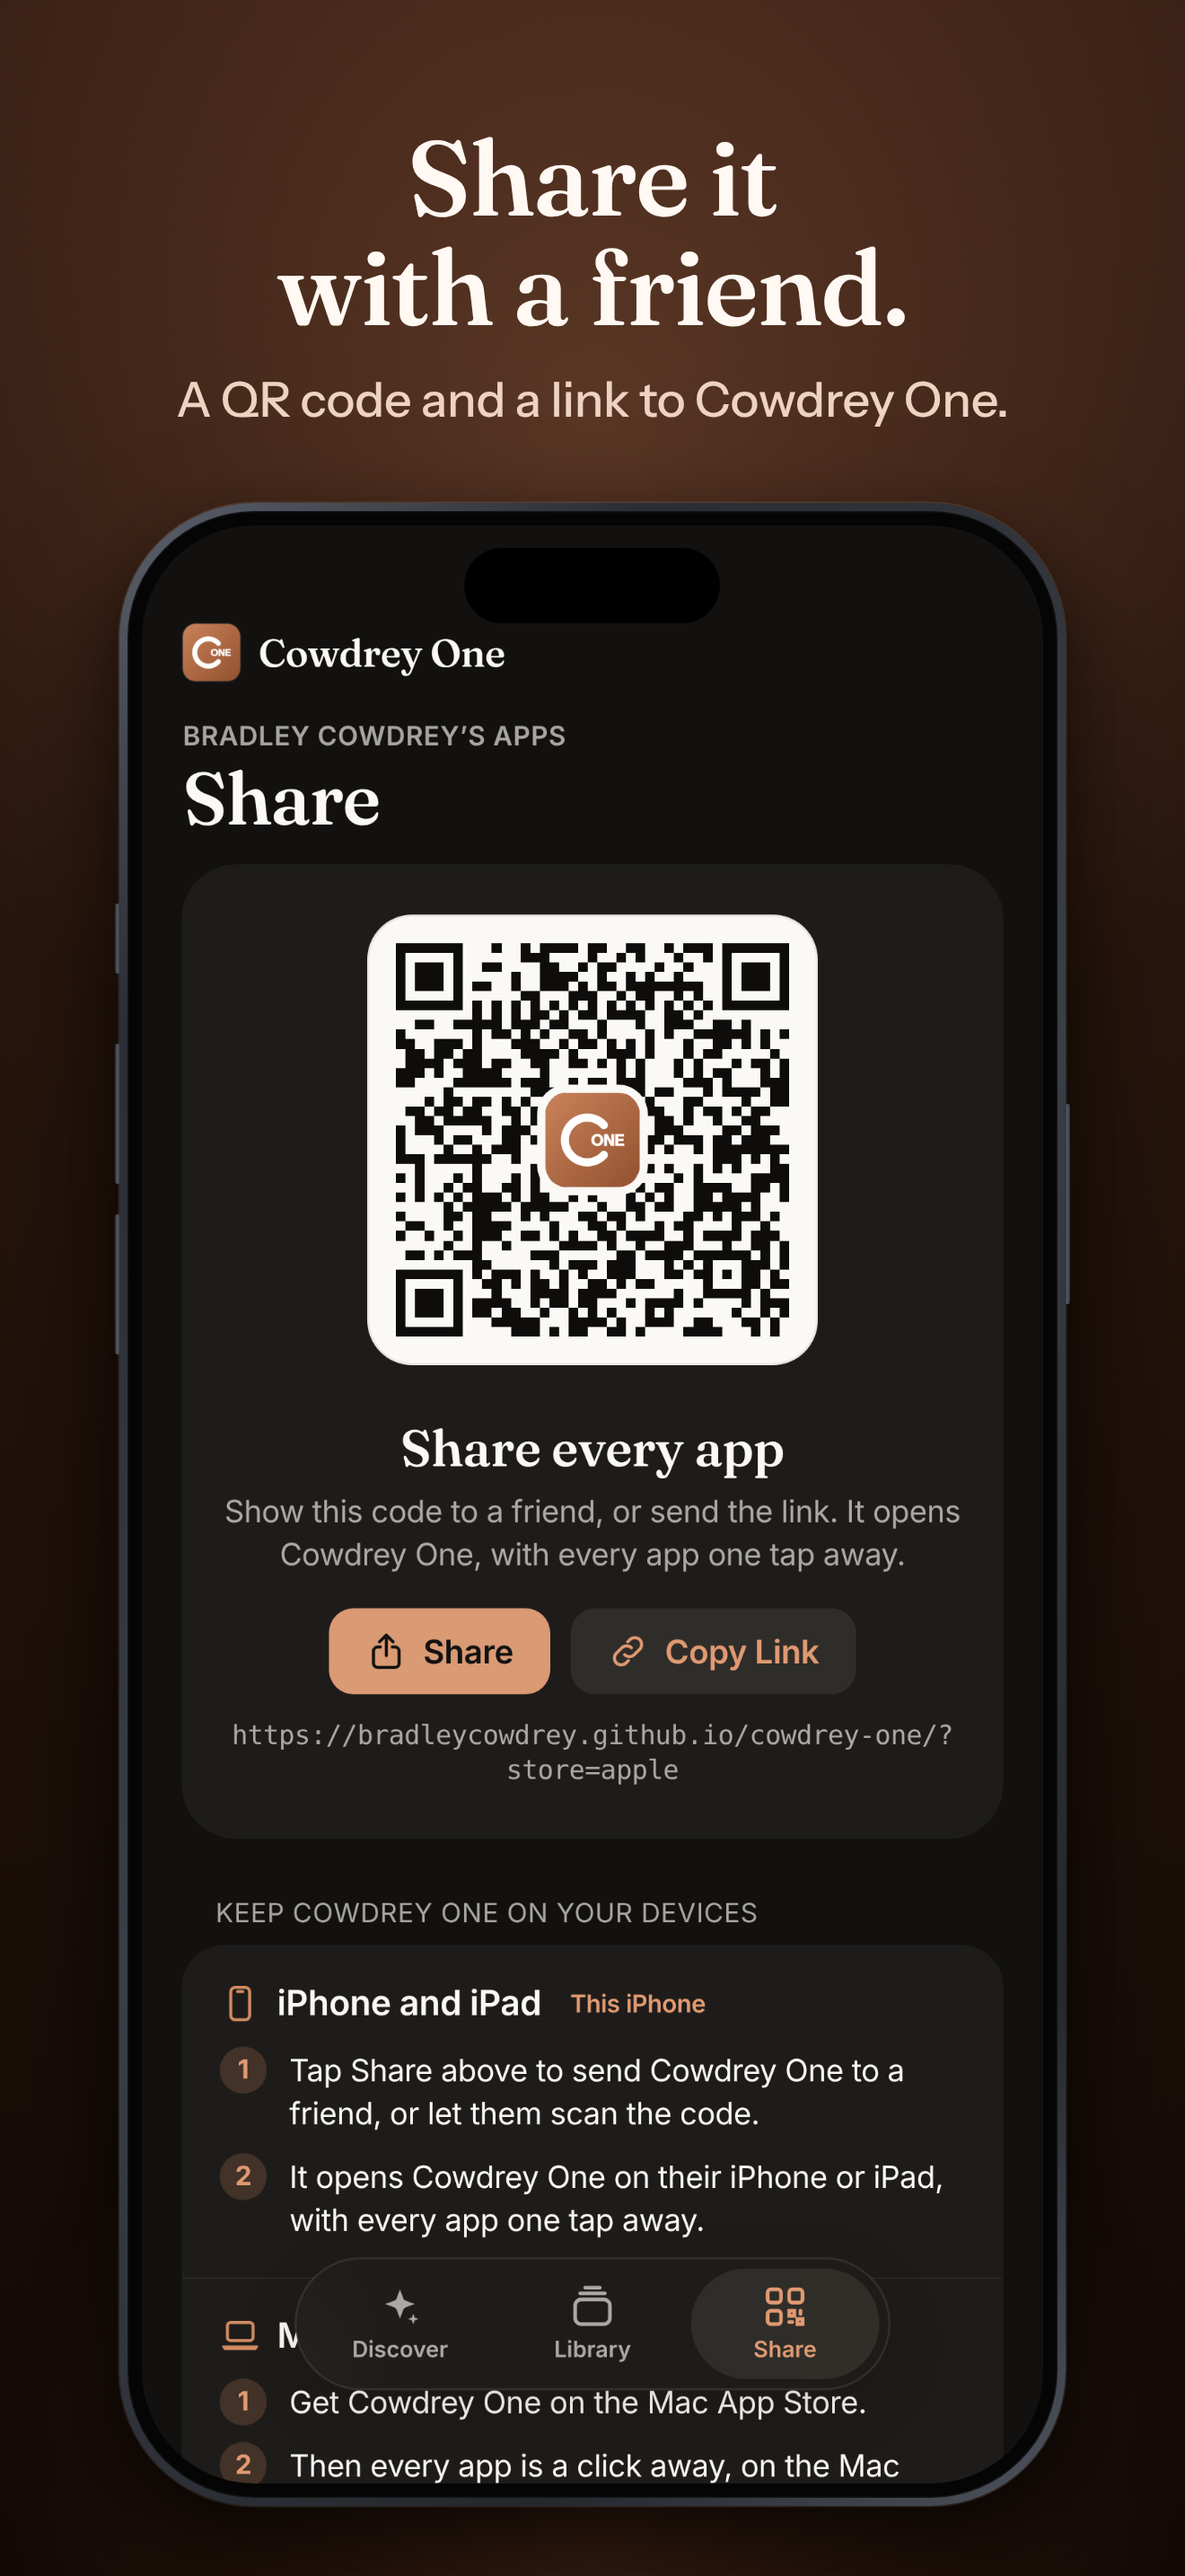
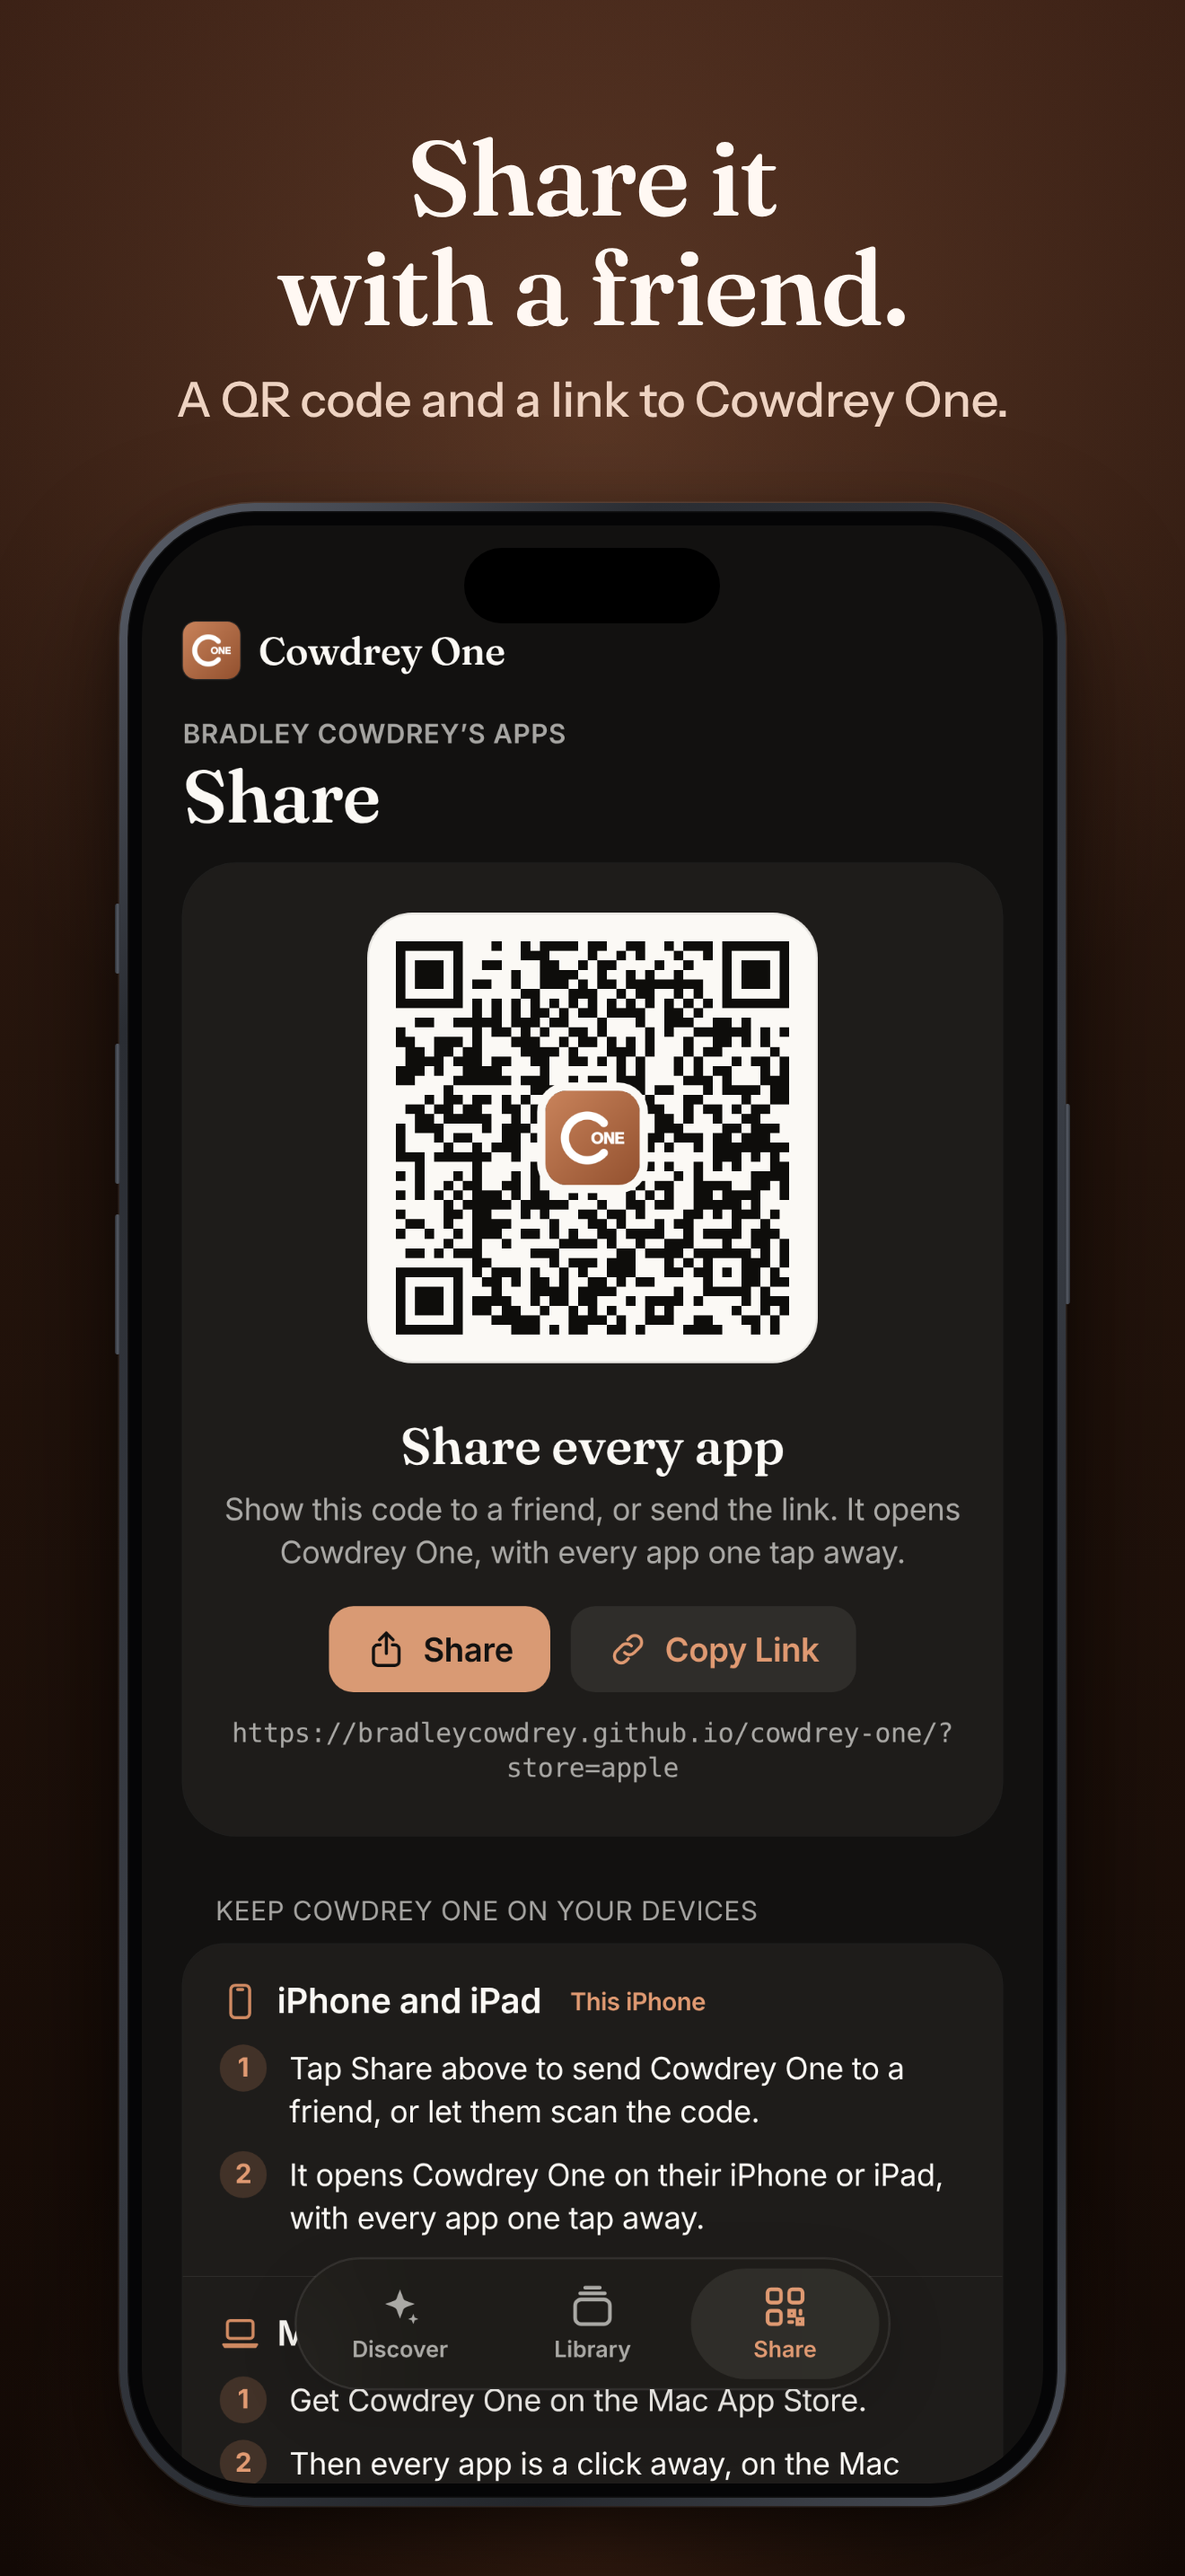
iPad sidebar says Share; Get Every App fits its list; cleaner pictures
- On iPhone and iPad the sidebar's Share item now says "Share", as its
  page does; on a computer it still says "Get on Your Phone".
- On an iPad (and a wide browser window) Get Every App opens as a sheet
  the height of its list, centred, as iPadOS shows a short form sheet,
  instead of a page sheet that was half empty below Done. The Mac app is
  unchanged.
- App Store pictures: the iPhone Library is scrolled so every app,
  Golden Hour included, sits whole above the tab bar with On This iPhone
  still in view; iPad Get Every App shows the centred sheet; the iPad
  Share picture's sidebar matches its page.
- Tests check the sidebar's names and the iPad sheet.

Claude-Session: https://claude.ai/code/session_0121CDm3T9bJcPZiRVm92y6R

diff --git a/web/app.js b/web/app.js
@@ -963,6 +963,9 @@
     $$('.view').forEach((v) => { v.hidden = v.id !== 'view-' + t; });
     $$('.tab, .side-item').forEach((b) => { if (b.dataset.tab === t) b.setAttribute('aria-current', 'page'); else b.removeAttribute('aria-current'); });
     $('.navbar-title').textContent = t === 'share' && !isPhone() ? 'Get on Your Phone' : titles[t];
+    // The sidebar names Share as its page does: Share on the iPhone and iPad, Get on Your Phone on a computer.
+    const side = $('.side-item[data-tab="share"] span');
+    if (side) side.textContent = isPhone() ? 'Share' : 'Get on Your Phone';
     hist(() => history.replaceState(history.state, '', t === 'discover' ? location.pathname + location.search : '#' + t));
     window.scrollTo(0, 0);
     watchTitle();
@@ -1032,7 +1035,9 @@
       case 'open-app': e.preventDefault(); openApp(t.dataset.id); break;
       case 'tab': closeSheet(); showTab(t.dataset.tab); break;
       case 'slide': { const car = $('.carousel'); car.scrollTo({ left: +t.dataset.i * (car.firstElementChild.offsetWidth + 14), behavior: 'smooth' }); break; }
-      case 'setup': openSheet(setupPage(), { kind: 'setup' }); break;
+      // On an iPad or a wide browser window the list is shorter than the screen, so it opens as a sheet the height of
+      // its list, centred (as iPadOS shows a short form sheet); the Mac app's sheet hangs from the window's top.
+      case 'setup': openSheet(setupPage(), { kind: 'setup', short: NATIVE !== 'mac' && matchMedia('(min-width: 900px)').matches }); break;
       case 'about': openSheet(aboutPage(), { kind: 'about' }); break;
       case 'close': closeSheet(); break;
       case 'agree': store.set('terms', { v: C.termsVersion, at: Date.now() }); sheet && (sheet.dataset.locked = ''); closeSheet(); break;
